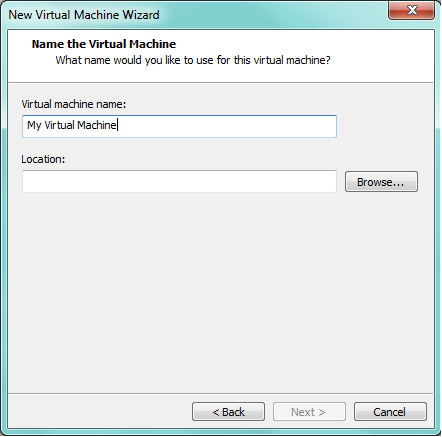
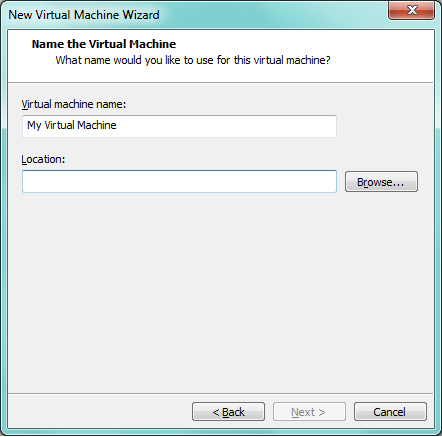
Добавлен новый снимок экрана для инструкции по созданию ВМ

Changed region(s): [[0.7353, 0.3867, 0.7647, 0.4462], [0.7353, 0.2975, 0.7647, 0.3272]]

diff --git a/README.md b/README.md
@@ -1,4 +1,6 @@
-Пример простой операционной системы для x86
+# Пример простой операционной системы для x86
+
+![alt text](https://raw.githubusercontent.com/swdevel/unio/master/entry.png)
 
 ## Реализовано:
 1. Загрузка с образа дискеты
@@ -15,7 +17,78 @@
 2. Многозадачность
 3. Графический VGA-режим
 
-## Окружение для сборки и тестирования
-1. GCC
-2. NASM
-3. WMware или другая виртуальная машина
+## Быстрый старт
+
+### Сборка проекта под Windows
+----
+Для сборки проекта необходимо установить следующий набор программ:
+
+1. MinGW
+2. NASM под Windows
+
+После установки необходимо отредактировать файл build.bat и прописать значения для следующих переменных:
+
+```
+set CC="путь\к\файлу\gcc.exe"
+set LD="путь\к\файлу\ld.exe"
+set NASM="путь\к\файлу\nasm.exe"
+set OBJCOPY="путь\к\файлу\objcopy.exe"
+```
+
+После редактирования необходимо запустить сборочный скрипт `build.bat`
+
+В результате сборки проекта должен быть создан файл `boot.img`
+
+### Запуск ОС в виртуальной машине VMware Workstation
+
+----
+При создании новой виртуальной машины необходимо выполнить следующую последовательность шагов:
+
+Шаг 1:
+<details>
+
+![alt text](https://raw.githubusercontent.com/swdevel/unio/master/man/images/setup_wm_01.png)
+
+</details>
+
+Шаг 2:
+<details>
+
+![alt text](https://raw.githubusercontent.com/swdevel/unio/master/man/images/setup_wm_02.png)
+
+</details>
+
+Шаг 3:
+<details>
+
+![alt text](https://raw.githubusercontent.com/swdevel/unio/master/man/images/setup_wm_03.png)
+
+</details>
+
+Шаг 4:
+<details>
+
+![alt text](https://raw.githubusercontent.com/swdevel/unio/master/man/images/setup_wm_04.png)
+
+</details>
+
+Шаг 5:
+<details>
+
+![alt text](https://raw.githubusercontent.com/swdevel/unio/master/man/images/setup_wm_05.png)
+
+</details>
+
+Шаг 6:
+<details>
+
+![alt text](https://raw.githubusercontent.com/swdevel/unio/master/man/images/setup_wm_06.png)
+
+</details>
+
+Шаг 7:
+<details>
+
+![alt text](https://raw.githubusercontent.com/swdevel/unio/master/man/images/setup_wm_07.png)
+
+</details>
